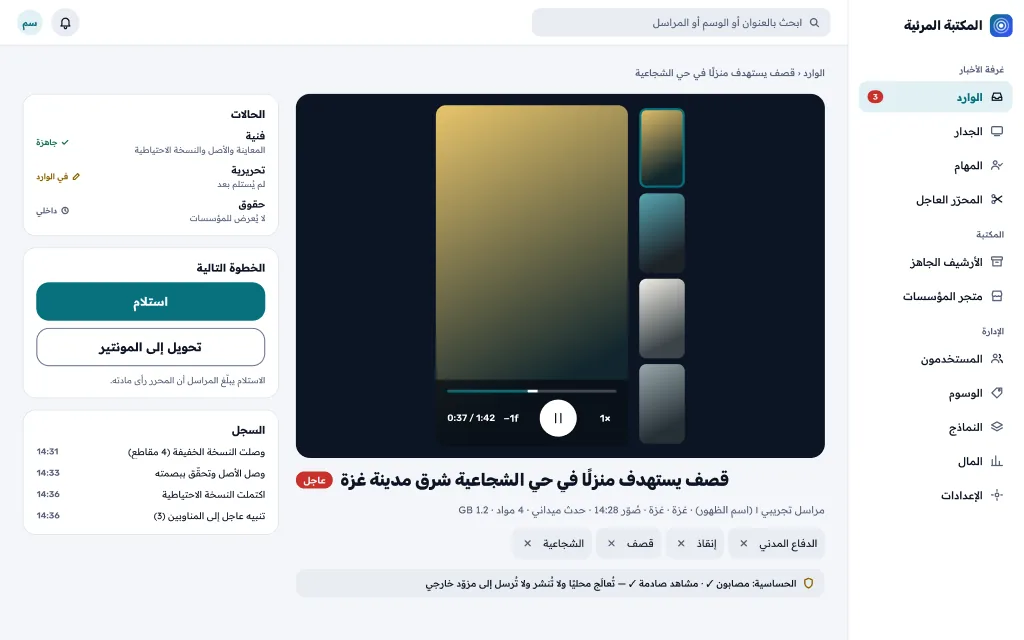
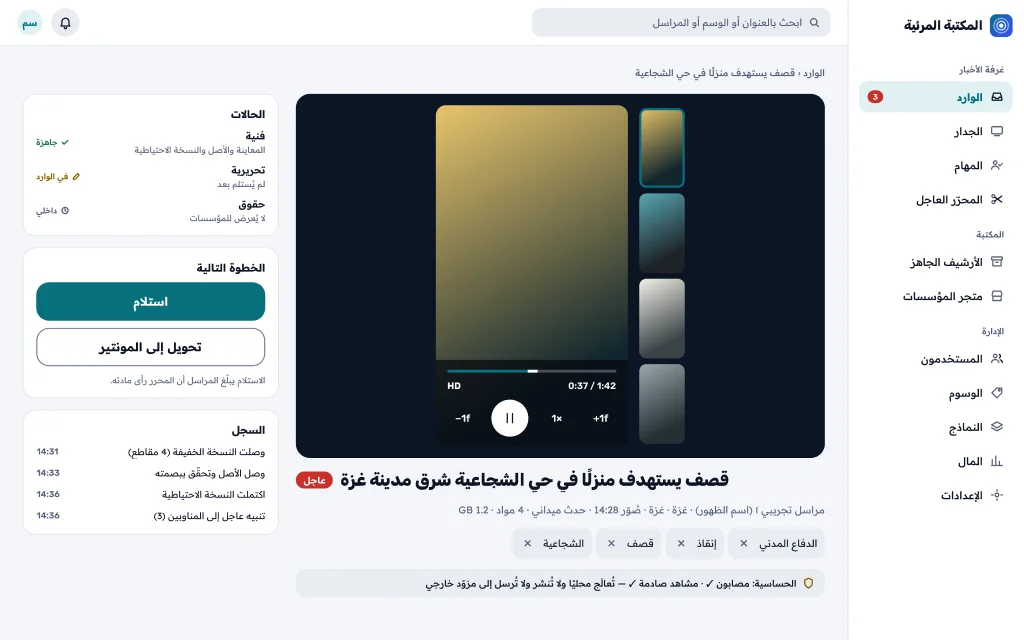
design: web newsroom in English and dark, store invite/verification/invoice, producer upload stages
New Figma page "Web: EN, Dark & Flows" and its exports in screens/web/:
- W1 and W2 in English (LTR, media controls kept LTR) and in Dark
  (explicit Dark mode on the frame, every colour from a variable).
- Store: S5 accept invitation (recovery-complete flow, then TOTP),
  S5b expired invite, S6 organisation pending verification (no
  catalog, since it answers 403), S7 invoice (light paper, sandbox
  banner, numbers from Order/BuyerOrganization/License).
- Producer upload card in W6 with the seven UploadSession states.
- W2 fix: the 9:16 player's controls overflowed and clipped "HD" and
  "+1f"; time and HD now sit above the transport row. w02 re-exported.

web-v2.md documents each screen and the contract gaps it found
(invite read by token, invoice object and issuer/tax lines, PO number,
producer uploading a produced version).

Claude-Session: https://claude.ai/code/session_01HY7py4Kwox1KypVxZuFGKP

Changed region(s): [[0.4062, 0.5625, 0.625, 0.6875]]

diff --git a/docs/design/specs/web-v2.md b/docs/design/specs/web-v2.md
@@ -1,7 +1,7 @@
 # واجهات الويب v2 — غرفة الأخبار والمكتب والمتجر والإدارة
 
 **المرجع:** ملف Figma «Visual Library — Design System»، الصفحات `Web: Newsroom & Desk` و`Web: Store` و`Web: Admin`
-و`Web: Sign-in & Public` و`Web: Responsive & States` (الرابط في `design-system-v2.md`). مبنية من مكوّنات v2 ومتغيّراتها
+و`Web: Sign-in & Public` و`Web: Responsive & States` و`Web: EN, Dark & Flows` (الرابط في `design-system-v2.md`). مبنية من مكوّنات v2 ومتغيّراتها
 (`design-system-v2.md`)، ولقطاتها في `docs/design/redesign-2026-11/screens/web/`. سطح المكتب 1440×900، والجوال 390×844، والتابلت 1024×768، والجدار
 1920×1080. الوجه الداكن للمتجر والجدار بوضع `Dark` المضبوط صراحةً على الإطار، لا بألوان منسوخة.
 
@@ -85,7 +85,44 @@
 | E5 | لا صلاحية | يقول الدور وما يملكه؛ والشريط الجانبي لا يعرض ما لا يملكه الدور (المحرّر: غرفة الأخبار والأرشيف). «اطلب الوصول» **مقترح** خارج الخطة والعقد، يحتاج موافقة المنسّق قبل بنائه (ومعه حدّ طول للسبب وتهريبه وتحديد معدّل وسجل تدقيق) |
 | E6 | المتجر بلا نتائج | يقول لماذا (المواد تظهر بعد المراجعة واعتماد الحقوق)، و«أشعرني حين تصل» (البحث المحفوظ بتنبيه في الخطة)؛ الفعل الأساسي ذهبي ثابت كما في S1 وS3 |
 
-**الأزرار:** الفعل الأساسي في الويب «Solid» ثابت؛ التدرّج لزرّ الإرسال في تطبيق المراسل وأيقونته وحدهما (`design-system-v2.md`). وزرّا A1 «دعوة مستخدم» وA4 «صرف المحدّد» المدموجان بالتدرّج يُصحَّحان مع شاشات الإدارة في طلب لاحق.
+**الأزرار:** الفعل الأساسي في الويب «Solid» ثابت؛ التدرّج لزرّ الإرسال في تطبيق المراسل وأيقونته وحدهما (`design-system-v2.md`). وزرّا A1 «دعوة مستخدم» وA4 «صرف المحدّد» وزرّ W6 «سلّم للمحرّر» المدموجة بالتدرّج تُصحَّح في طلب لاحق (مراحل الرفع U أدناه مرسومة بـ «Solid»).
+
+## الإنجليزية والوضع الداكن لغرفة الأخبار (صفحة Figma `Web: EN, Dark & Flows`)
+
+نسخ للمراجعة من W1 وW2، لا مكوّنات جديدة. اللقطات `w01-inbox-en` و`w02-material-en` و`w01-inbox-dark` و`w02-material-dark`.
+
+- **الإنجليزية (LTR):** التخطيط معكوس كله: الشريط الجانبي في اليسار، والصفوف والمؤشّرات والرقاقات بترتيب القراءة نفسه. يُستثنى من العكس **ضوابط الوسائط**: شريط التقدّم يمتلئ من اليسار، و«−1f» قبل «+1f» في اللغتين. المصطلحات من `apps/web/messages/en.json` حيث وُجدت («Producer»، «Technical/Editorial/Rights»)، والخطّ Readex Pro نفسه. اسم المنصّة «Visual Library».
+- **الداكن:** الإطار نفسه بوضع `Dark` المضبوط صراحةً، فكل لون من متغيّر. لا لون منسوخ ولا استثناء.
+- **إصلاح في W2 (ونسخها):** أزرار المشغّل الطولي (9:16) كانت أعرض من المشغّل، فكان «HD» و«+1f» يُقصّان في `w02-material` المدموجة. صار الوقت و«HD» في سطر فوق أزرار النقل، وأُعيد تصدير `w02-material`.
+
+## المتجر: الدعوة والتحقّق والفاتورة
+
+المؤسسة لا تسجّل نفسها: ينشئها مدير النظام (`createBuyerOrganization`) بحالة `pending_verification` ومعها مديرها الأول، ثم يدعو مديرها الأعضاء (`inviteBuyerMember`). فلا شاشة «طلب انضمام» عامة. المرسوم هو ما يراه المدعوّ والمؤسسة قبل التفعيل، والفاتورة بعد الشراء. اللقطات `s5-*` و`s6-*` و`s7-*`.
+
+| الرمز | الشاشة | القاعدة |
+|---|---|---|
+| S5 | قبول الدعوة | رمز الدعوة يُسلَّم كرمز الاستعادة، فالصفحة إكمال استعادة (`/auth/recovery/complete`): كلمة مرور من 12 حرفًا فأكثر وتأكيدها، ثم ربط المصادقة الثنائية (TOTP)، وهو إلزامي عند أول دخول. الخطوتان ظاهرتان في رأس البطاقة. البريد محدّد بالدعوة ولا يُغيَّر. **فجوة عقد:** عرض اسم المؤسسة والدور والبريد يحتاج قراءة الدعوة برمزها، وهذه القراءة ليست في العقد. بدونها تعرض الصفحة «عيّن كلمة المرور» وحدها |
+| S5b | رابط الدعوة منتهٍ | الرابط لمرة واحدة ولمدة أقصاها 24 ساعة (`invite_token_expires_at`). المخرج: «اطلب من مدير مؤسستك أن يدعوك من جديد». لا يقول هل البريد مسجَّل |
+| S6 | مؤسسة قيد التحقّق | `pending_verification` لا تشتري، والكتالوج يردّ `403 forbidden_scope`، فلا يُعرض كتالوج باهت. البطاقة تقول ما تراجعه الإدارة (البنود الثلاثة في A5)، بلا حالة لكل بند لأنها ليست في العقد. «ما تستطيعه الآن»: دعوة الأعضاء ضمن المقاعد (`seats` و`active_members`)، والعقد لا يمنع الدعوة قبل التفعيل. `suspended` بالنمط نفسه: الشراء والتنزيل الجديد متوقفان |
+| S7 | الفاتورة | ورقة فاتحة (وضع `Light` صريح) داخل المتجر الداكن، تُطبع وتُنزَّل PDF. لافتة ثابتة: «مستند تجريبي وليس فاتورة ضريبية، ولم يُخصم مال حقيقي» ما دام المزوّد تجريبيًا. البيانات من `Order` (الرقم والبنود والإجمالي و`paid_at`) و`BuyerOrganization` (`legal_name` و`country` و`billing_email`) و`License` (`license_number`). الأسعار بالدولار والعملة في رأس العمود، والمجاميع تحت الجدول. **فجوات عقد:** لا كائن فاتورة ولا ترقيم لها، ولا بيانات المُصدِر القانونية ولا الضريبة. هذه تُضاف بعد المراجعة القانونية والمالية، والإطار يقول ذلك مكانها. ورقم أمر الشراء (هنا وفي S3) ليس في `Order` بعد |
+
+## رفع المادة المُنتَجة (المونتير)
+
+بطاقة «رفع المادة المُنتَجة» في W6 بحالاتها. اللقطات: `u1-task-uploading` هي W6 أثناء الرفع، و`u2-upload-states` هي الحالات السبع. الحالات هي حالات `UploadSession` نفسها، والرفع من الويب بـ Uppy وtus. «سلّم للمحرّر» لا يُفعَّل قبل `verified`.
+
+| الحالة | `UploadSession` | ما تقوله البطاقة |
+|---|---|---|
+| يُرفع | `in_progress` | ما وصل من الحجم بنسبته، والوقت الباقي، و«إيقاف مؤقت» و«إلغاء»، وتنبيه أن إغلاق التبويب يوقف النقل |
+| انقطع الاتصال | `in_progress` | ما وصل محفوظ، والاستئناف تلقائي عند عودة الشبكة، و«استأنف الآن» |
+| أُغلق التبويب | `in_progress` (من `listMyUploadSessions`) | الجلسة محفوظة لكن المتصفح لا يحتفظ بالملف: «اختر الملف نفسه لنكمل من 46%»، و«ابدأ من جديد» |
+| نتحقّق | `completed` | وصل الملف كاملًا والخادم يحسب البصمة. لا يُقبل قبلها |
+| اكتمل | `verified` | «وصل وتحقّقنا من بصمته»، و«استبدل الملف» قبل التسليم، و«سلّم للمحرّر» فعّال |
+| فشل | `failed` (`checksum_mismatch` أو `aborted`) | السبب بكلمات، وما وصل حُذف، و«ارفع من جديد» |
+| مكرّر | `deduplicated` | الملف نفسه مرفوع من قبل، فيُربط بالموجود ولا يُرفع ثانية |
+
+اسم الملف لاتيني في العيّنة لأن الاسم المختلط اللغة ينقلب اتجاهه في Figma. في التنفيذ يُعزل اسم الملف والأحجام والنِّسب (`<bdi>`)، والحجم بوحدة عربية داخل الجملة («ميغابايت»).
+
+**سؤال مفتوح للمنسّق (فجوة عقد):** جلسة الرفع «لمنشئ المادة وحده»، والطاقم يرفع من الويب `kind: original` وحده. فرفع المونتير نسخةً مُنتَجة لمادة أنشأها مراسل غير ممكن في العقد اليوم. يلزمه نوع جديد للملف (نسخة مُنتَجة) أو مادة مشتقّة، ثم تغيير عقد مستقل.
 
 ## قواعد مشتركة
 
